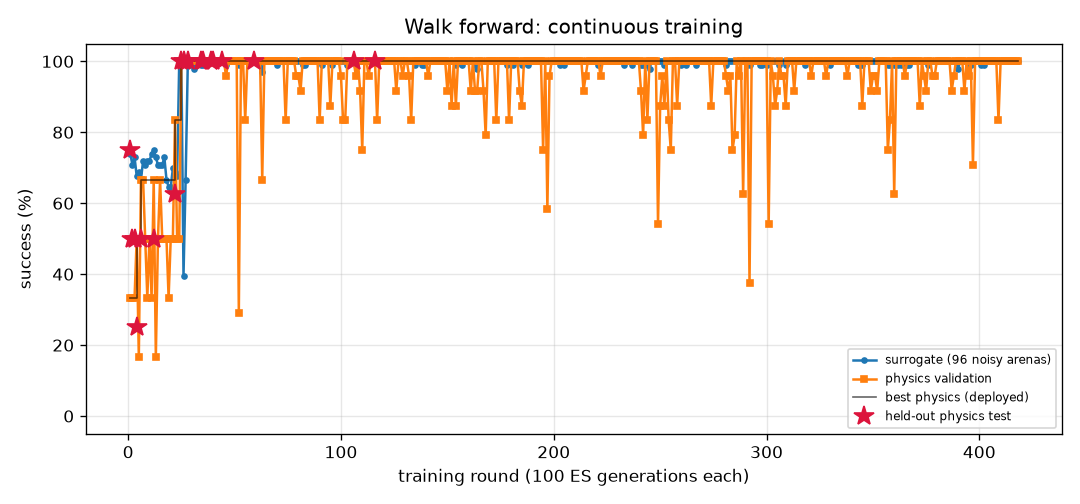
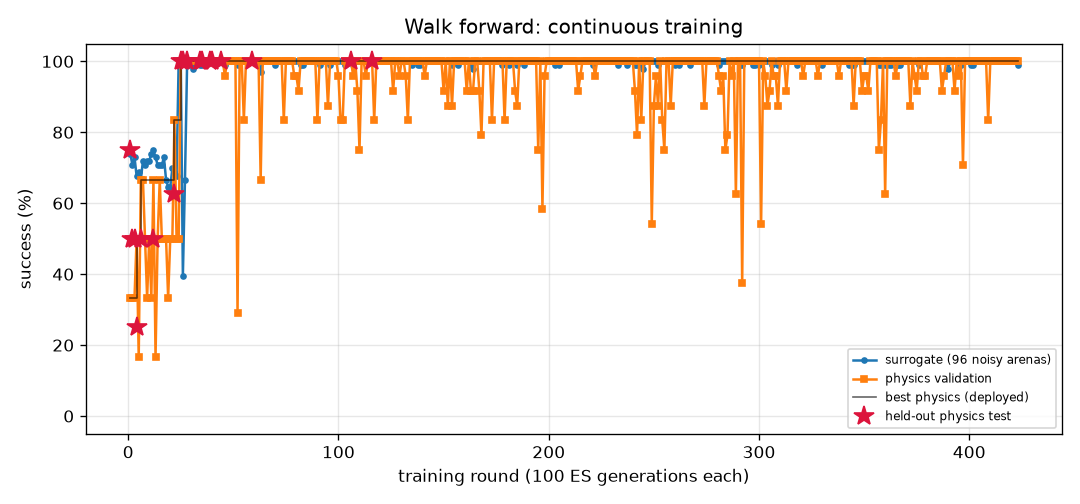
FlyLab: continuous training progress
- walk_forward: optimal, physics val 100% of 24, round 423
- turn: optimal, physics val 100% of 24, round 1132
- goto: optimal, physics val 100% of 24, round 323
- odor_seek: optimal, physics val 100% of 24, round 261
- odor_avoid: optimal, physics val 100% of 24, round 981
- light_seek: optimal, physics val 100% of 24, round 527
- light_avoid: optimal, physics val 100% of 24, round 698

diff --git a/projects/09_flylab/training/walk_forward/REPORT.md b/projects/09_flylab/training/walk_forward/REPORT.md
@@ -1,14 +1,14 @@
 # Walk forward (`walk_forward`) — training report
 
-*Auto-generated by `train_brains.py`, last updated 2026-11-18T15:31:30.*
+*Auto-generated by `train_brains.py`, last updated 2026-11-18T16:38:00.*
 
 ![curve](curve.png)
 
 | | |
 |---|---|
-| rounds | 418 |
-| ES generations | 41800 |
-| physics runs | 10046 |
+| rounds | 423 |
+| ES generations | 42300 |
+| physics runs | 10166 |
 | status | **optimal** |
 | best brain | round 116: physics validation **100%** on 24 arenas, surrogate 100% |
 | held-out physics test | **100%** on 32 unseen arenas (95% CI 89%-100%) (errors: [0.13, 0.16, 0.19, 0.16, 0.15, 0.2, 0.17, 0.18, 0.17, 0.19, 0.2, 0.14, 0.17, 0.19, 0.2, 0.2, 0.13, 0.19, 0.16, 0.2, 0.2, 0.16, 0.17, 0.2, 0.13, 0.15, 0.18, 0.14, 0.16, 0.15, 0.19, 0.12]) |
@@ -17,11 +17,6 @@ Physics error per arena: mm from target at the end (< 1.5 and standing still = s
 
 | round | level | gens | sigma | surrogate | physics val | val errors | test | note |
 |---:|---:|---:|---:|---:|---:|---|---:|---|
-| 379 | 3 | 37900 | 0.024 | 100% | 96% | [0.07, 0.09, 0.09, 0.08, 0.08, 0.06, 0.1, 0.06, 0.09, 0.12, 0.41, 0.17, 0.04, 0.08, 0.07, 0.14, 0.06, 0.12, 0.09, 0.09, 0.06, 0.12, 0.18, 0.05] |  |  |
-| 380 | 3 | 38000 | 0.024 | 100% | 100% | [0.14, 0.17, 0.15, 0.14, 0.17, 0.1, 0.18, 0.14, 0.17, 0.18, 0.09, 0.19, 0.12, 0.1, 0.15, 0.19, 0.14, 0.17, 0.15, 0.15, 0.14, 0.18, 0.18, 0.13] |  | restart from best |
-| 381 | 3 | 38100 | 0.024 | 100% | 100% | [0.31, 0.29, 0.25, 0.3, 0.29, 0.24, 0.29, 0.27, 0.29, 0.28, 0.23, 0.26, 0.26, 0.24, 0.31, 0.26, 0.29, 0.3, 0.27, 0.3, 0.27, 0.27, 0.25, 0.26] |  |  |
-| 382 | 3 | 38200 | 0.024 | 100% | 100% | [0.19, 0.18, 0.13, 0.2, 0.17, 0.15, 0.2, 0.14, 0.15, 0.22, 0.18, 0.22, 0.18, 0.11, 0.21, 0.24, 0.16, 0.17, 0.17, 0.22, 0.13, 0.19, 0.18, 0.19] |  |  |
-| 383 | 3 | 38300 | 0.024 | 100% | 100% | [0.23, 0.23, 0.2, 0.23, 0.22, 0.19, 0.23, 0.21, 0.22, 0.21, 0.18, 0.2, 0.21, 0.2, 0.22, 0.21, 0.22, 0.23, 0.22, 0.23, 0.22, 0.21, 0.2, 0.21] |  |  |
 | 384 | 3 | 38400 | 0.024 | 100% | 100% | [0.21, 0.06, 0.17, 0.22, 0.05, 0.02, 0.15, 0.2, 0.08, 0.16, 0.33, 0.16, 0.2, 0.02, 0.09, 0.18, 0.22, 0.07, 0.2, 0.1, 0.21, 0.16, 0.15, 0.2] |  | restart from best |
 | 385 | 3 | 38500 | 0.024 | 100% | 100% | [0.23, 0.33, 0.19, 0.23, 0.33, 0.2, 0.33, 0.18, 0.33, 0.33, 0.21, 0.31, 0.18, 0.2, 0.25, 0.32, 0.21, 0.3, 0.18, 0.27, 0.18, 0.33, 0.31, 0.18] |  |  |
 | 386 | 3 | 38600 | 0.024 | 100% | 100% | [0.11, 0.2, 0.12, 0.11, 0.2, 0.14, 0.21, 0.12, 0.2, 0.25, 0.15, 0.25, 0.12, 0.14, 0.12, 0.25, 0.11, 0.17, 0.12, 0.14, 0.11, 0.26, 0.25, 0.11] |  |  |
@@ -57,3 +52,8 @@ Physics error per arena: mm from target at the end (< 1.5 and standing still = s
 | 416 | 3 | 41600 | 0.024 | 100% | 100% | [0.21, 0.21, 0.17, 0.21, 0.21, 0.17, 0.22, 0.19, 0.21, 0.2, 0.16, 0.19, 0.19, 0.17, 0.21, 0.2, 0.21, 0.22, 0.2, 0.22, 0.2, 0.21, 0.19, 0.19] |  | restart from best |
 | 417 | 3 | 41700 | 0.024 | 100% | 100% | [0.22, 0.22, 0.16, 0.22, 0.22, 0.15, 0.22, 0.19, 0.22, 0.18, 0.06, 0.08, 0.19, 0.15, 0.22, 0.07, 0.21, 0.23, 0.19, 0.23, 0.21, 0.18, 0.13, 0.19] |  |  |
 | 418 | 3 | 41800 | 0.024 | 100% | 100% | [0.26, 0.29, 0.2, 0.26, 0.29, 0.2, 0.28, 0.23, 0.29, 0.28, 0.19, 0.26, 0.23, 0.2, 0.27, 0.27, 0.26, 0.28, 0.22, 0.28, 0.24, 0.28, 0.26, 0.23] |  |  |
+| 419 | 3 | 41900 | 0.024 | 100% | 100% | [0.22, 0.27, 0.16, 0.22, 0.26, 0.16, 0.26, 0.19, 0.27, 0.26, 0.16, 0.25, 0.18, 0.17, 0.24, 0.25, 0.21, 0.25, 0.19, 0.25, 0.2, 0.25, 0.25, 0.18] |  |  |
+| 420 | 3 | 42000 | 0.024 | 100% | 100% | [0.24, 0.29, 0.24, 0.24, 0.29, 0.23, 0.3, 0.23, 0.29, 0.32, 0.23, 0.33, 0.22, 0.22, 0.25, 0.32, 0.23, 0.28, 0.22, 0.26, 0.23, 0.32, 0.33, 0.22] |  | restart from best |
+| 421 | 3 | 42100 | 0.024 | 100% | 100% | [0.19, 0.17, 0.18, 0.18, 0.18, 0.17, 0.17, 0.18, 0.17, 0.15, 0.17, 0.13, 0.18, 0.18, 0.18, 0.19, 0.18, 0.18, 0.18, 0.18, 0.18, 0.19, 0.19, 0.18] |  |  |
+| 422 | 3 | 42200 | 0.024 | 100% | 100% | [0.26, 0.23, 0.27, 0.26, 0.16, 0.26, 0.15, 0.26, 0.23, 0.13, 0.25, 0.13, 0.26, 0.26, 0.13, 0.11, 0.28, 0.24, 0.26, 0.24, 0.27, 0.09, 0.1, 0.26] |  |  |
+| 423 | 3 | 42300 | 0.024 | 99% | 100% | [0.29, 0.29, 0.23, 0.29, 0.29, 0.22, 0.28, 0.26, 0.29, 0.27, 0.22, 0.25, 0.25, 0.22, 0.3, 0.26, 0.29, 0.3, 0.26, 0.3, 0.27, 0.27, 0.25, 0.25] |  |  |

diff --git a/projects/09_flylab/training/light_seek/REPORT.md b/projects/09_flylab/training/light_seek/REPORT.md
@@ -1,14 +1,14 @@
 # Walk toward light (`light_seek`) — training report
 
-*Auto-generated by `train_brains.py`, last updated 2026-11-18T15:25:57.*
+*Auto-generated by `train_brains.py`, last updated 2026-11-18T16:15:52.*
 
 ![curve](curve.png)
 
 | | |
 |---|---|
-| rounds | 524 |
-| ES generations | 52400 |
-| physics runs | 9456 |
+| rounds | 527 |
+| ES generations | 52700 |
+| physics runs | 9528 |
 | status | **optimal** |
 | best brain | round 375: physics validation **100%** on 24 arenas, surrogate 100% |
 | held-out physics test | **100%** on 32 unseen arenas (95% CI 89%-100%) (errors: [0.57, 0.54, 0.53, 0.57, 0.55, 0.56, 0.59, 0.56, 0.53, 0.56, 0.71, 0.56, 0.55, 0.54, 0.53, 0.54, 0.54, 0.55, 0.52, 0.65, 0.64, 0.7, 0.58, 0.57, 0.6, 0.62, 0.55, 0.88, 0.54, 0.52, 0.62, 0.57]) |
@@ -17,9 +17,6 @@ Physics error per arena: mm from target at the end (< 1.5 and standing still = s
 
 | round | level | gens | sigma | surrogate | physics val | val errors | test | note |
 |---:|---:|---:|---:|---:|---:|---|---:|---|
-| 485 | 3 | 48500 | 0.024 | 100% | 100% | [1.0, 0.68, 0.74, 0.62, 0.53, 0.56, 0.58, 0.61, 0.71, 0.52, 0.63, 0.61, 0.59, 0.73, 0.58, 0.61, 0.59, 0.58, 0.57, 0.52, 0.55, 0.79, 0.52, 0.58] |  |  |
-| 486 | 3 | 48600 | 0.024 | 100% | 100% | [1.04, 0.7, 0.78, 0.65, 0.62, 0.69, 0.66, 0.66, 1.03, 0.62, 0.69, 0.62, 0.66, 0.68, 0.65, 0.62, 0.65, 0.72, 0.64, 0.62, 0.69, 0.61, 0.84, 0.65] |  |  |
-| 487 | 3 | 48700 | 0.024 | 100% | 100% | [0.62, 0.51, 0.63, 0.55, 0.67, 0.59, 0.56, 0.52, 0.65, 0.64, 0.63, 0.6, 0.51, 0.77, 0.6, 0.55, 0.54, 0.51, 0.6, 1.02, 0.59, 0.65, 0.49, 0.66] |  | restart from best |
 | 488 | 3 | 48800 | 0.024 | 100% | 100% | [1.03, 0.59, 0.65, 0.53, 0.58, 0.7, 0.63, 0.53, 0.69, 0.57, 0.57, 0.65, 0.63, 0.72, 0.54, 0.68, 0.57, 0.69, 0.52, 0.59, 0.63, 1.31, 0.71, 0.91] |  |  |
 | 489 | 3 | 48900 | 0.024 | 100% | 100% | [0.63, 0.58, 0.62, 0.61, 0.59, 0.6, 0.57, 0.64, 0.68, 0.63, 0.66, 0.61, 0.67, 1.29, 0.64, 0.64, 0.59, 0.64, 0.6, 0.65, 0.68, 0.58, 0.66, 0.78] |  |  |
 | 490 | 3 | 49000 | 0.024 | 100% | 100% | [0.55, 0.5, 0.62, 0.96, 0.51, 0.64, 0.54, 0.56, 0.52, 0.57, 0.62, 0.65, 0.5, 0.57, 0.49, 0.49, 0.5, 0.61, 0.56, 0.6, 0.56, 0.61, 0.69, 0.54] |  |  |
@@ -57,3 +54,6 @@ Physics error per arena: mm from target at the end (< 1.5 and standing still = s
 | 522 | 3 | 52200 | 0.024 | 100% | 100% | [0.46, 0.59, 0.55, 0.49, 0.53, 0.48, 0.55, 0.54, 0.51, 0.47, 0.45, 0.58, 0.83, 0.48, 1.04, 0.6, 0.49, 0.54, 0.7, 0.51, 0.46, 1.19, 0.54, 0.51] |  |  |
 | 523 | 3 | 52300 | 0.024 | 100% | 100% | [0.52, 0.5, 0.51, 0.99, 0.58, 0.54, 0.56, 0.52, 0.59, 0.44, 0.5, 0.55, 1.01, 0.53, 0.58, 1.07, 0.56, 0.52, 0.5, 0.58, 0.91, 0.56, 0.63, 0.55] |  | restart from best |
 | 524 | 3 | 52400 | 0.024 | 100% | 100% | [0.6, 0.64, 0.71, 0.68, 0.69, 0.6, 0.56, 0.71, 0.73, 0.61, 0.69, 0.68, 0.62, 0.65, 0.62, 0.64, 0.59, 0.74, 0.65, 0.68, 0.75, 0.64, 0.65, 0.62] |  |  |
+| 525 | 3 | 52500 | 0.024 | 100% | 96% | [0.59, 0.57, 0.54, 0.68, 0.48, 0.61, 0.63, 2.47, 0.63, 0.56, 0.66, 0.7, 0.75, 0.64, 0.7, 0.65, 0.59, 0.53, 0.6, 0.61, 0.65, 0.65, 0.61, 0.68] |  |  |
+| 526 | 3 | 52600 | 0.024 | 100% | 92% | [0.48, 0.57, 0.45, 0.48, 0.52, 1.08, 0.45, 1.07, 2.5, 0.61, 0.47, 1.35, 0.53, 0.45, 0.51, 0.48, 0.52, 0.48, 0.55, 0.62, 0.5, 1.0, 0.44, 0.49] |  |  |
+| 527 | 3 | 52700 | 0.024 | 100% | 96% | [0.61, 0.58, 0.64, 0.54, 0.58, 0.6, 0.61, 0.62, 3.78, 0.58, 0.59, 0.65, 0.65, 0.62, 0.63, 0.6, 0.63, 0.56, 0.53, 0.6, 0.74, 0.55, 0.86, 0.58] |  | restart from best |

diff --git a/projects/09_flylab/training/goto/REPORT.md b/projects/09_flylab/training/goto/REPORT.md
@@ -1,14 +1,14 @@
 # Go to a location (`goto`) — training report
 
-*Auto-generated by `train_brains.py`, last updated 2026-11-18T13:09:31.*
+*Auto-generated by `train_brains.py`, last updated 2026-11-18T16:39:57.*
 
 ![curve](curve.png)
 
 | | |
 |---|---|
-| rounds | 322 |
-| ES generations | 32200 |
-| physics runs | 7678 |
+| rounds | 323 |
+| ES generations | 32300 |
+| physics runs | 7702 |
 | status | **optimal** |
 | best brain | round 176: physics validation **100%** on 24 arenas, surrogate 100% |
 | held-out physics test | **100%** on 32 unseen arenas (95% CI 89%-100%) (errors: [0.2, 0.32, 0.19, 0.24, 0.18, 0.2, 0.19, 0.17, 0.22, 0.23, 0.23, 0.26, 0.2, 0.19, 0.24, 0.23, 0.22, 0.24, 0.2, 0.22, 0.2, 0.2, 0.26, 0.19, 0.22, 0.18, 0.26, 0.22, 0.2, 0.26, 0.23, 0.23]) |
@@ -17,7 +17,6 @@ Physics error per arena: mm from target at the end (< 1.5 and standing still = s
 
 | round | level | gens | sigma | surrogate | physics val | val errors | test | note |
 |---:|---:|---:|---:|---:|---:|---|---:|---|
-| 283 | 3 | 28300 | 0.025 | 100% | 100% | [0.58, 0.57, 0.44, 0.46, 0.47, 0.48, 0.56, 0.54, 0.48, 0.46, 0.44, 0.45, 0.53, 0.49, 0.54, 0.53, 0.59, 0.46, 0.44, 0.5, 0.53, 0.45, 0.58, 0.48] |  |  |
 | 284 | 3 | 28400 | 0.024 | 99% | 100% | [0.62, 0.6, 0.58, 0.42, 0.44, 0.42, 0.6, 0.47, 0.46, 0.42, 0.42, 0.43, 0.49, 0.45, 0.5, 0.55, 0.56, 0.48, 0.4, 0.5, 0.53, 0.44, 0.55, 0.43] |  | restart from best |
 | 285 | 3 | 28500 | 0.024 | 98% | 100% | [0.46, 0.37, 0.41, 0.36, 0.29, 0.31, 0.43, 0.34, 0.4, 0.33, 0.32, 0.37, 0.43, 0.29, 0.36, 0.35, 0.46, 0.34, 0.31, 0.44, 0.32, 0.37, 0.44, 0.34] |  |  |
 | 286 | 3 | 28600 | 0.025 | 99% | 100% | [0.64, 0.65, 0.68, 0.6, 0.55, 0.58, 0.68, 0.61, 0.65, 0.57, 0.56, 0.6, 0.68, 0.53, 0.63, 0.59, 0.69, 0.61, 0.56, 0.69, 0.58, 0.63, 0.68, 0.61] |  |  |
@@ -57,3 +56,4 @@ Physics error per arena: mm from target at the end (< 1.5 and standing still = s
 | 320 | 3 | 32000 | 0.024 | 99% | 100% | [0.53, 0.5, 0.5, 0.43, 0.4, 0.4, 0.54, 0.42, 0.43, 0.4, 0.38, 0.41, 0.48, 0.4, 0.49, 0.46, 0.57, 0.43, 0.38, 0.47, 0.44, 0.41, 0.51, 0.4] |  | restart from best |
 | 321 | 3 | 32100 | 0.024 | 99% | 100% | [0.53, 0.47, 0.37, 0.46, 0.37, 0.4, 0.55, 0.42, 0.51, 0.41, 0.38, 0.44, 0.54, 0.36, 0.46, 0.42, 0.55, 0.42, 0.39, 0.54, 0.4, 0.46, 0.52, 0.43] |  |  |
 | 322 | 3 | 32200 | 0.025 | 99% | 100% | [0.6, 0.59, 0.58, 0.48, 0.45, 0.47, 0.59, 0.52, 0.51, 0.47, 0.45, 0.49, 0.58, 0.49, 0.52, 0.55, 0.5, 0.49, 0.45, 0.57, 0.51, 0.5, 0.59, 0.49] |  |  |
+| 323 | 3 | 32300 | 0.025 | 100% | 100% | [0.36, 0.37, 0.34, 0.29, 0.27, 0.31, 0.35, 0.34, 0.29, 0.26, 0.27, 0.29, 0.34, 0.3, 0.32, 0.37, 0.3, 0.28, 0.27, 0.32, 0.33, 0.28, 0.35, 0.29] |  |  |

diff --git a/projects/09_flylab/training/TRAINING.md b/projects/09_flylab/training/TRAINING.md
@@ -1,15 +1,15 @@
 # FlyLab brains — continuous training log
 
-*Auto-generated by `train_brains.py`, last updated 2026-11-18T15:31:30.*
+*Auto-generated by `train_brains.py`, last updated 2026-11-18T16:39:57.*
 
 Every skill has its own brain and its own training process: surrogate ES rounds, physics validation in MuJoCo, keep-the-best selection, and a held-out physics test that is never used for selection. See each skill's report for its full round-by-round history. Mastery is progressive: passing a level (100% physics validation, >=95% surrogate) doubles the validation and test arena sets; a brain is **optimal** once it holds up at level 3 (>=95% of 24 validation arenas) AND scores >=90% on the 32 held-out test arenas. Test columns show 95% Wilson confidence intervals.
 
 | skill | rounds | ES generations | physics runs | surrogate | physics val | **physics test** | status |
 |---|---:|---:|---:|---:|---:|---:|---|
-| [Walk forward](walk_forward/REPORT.md) | 418 | 41800 | 10046 | 100% | 100% of 24 | 100% of 32 (CI 89-100%) | **optimal** |
+| [Walk forward](walk_forward/REPORT.md) | 423 | 42300 | 10166 | 100% | 100% of 24 | 100% of 32 (CI 89-100%) | **optimal** |
 | [Turn in place](turn/REPORT.md) | 1132 | 113200 | 27414 | 100% | 100% of 24 | 97% of 32 (CI 84-99%) | **optimal** |
-| [Go to a location](goto/REPORT.md) | 322 | 32200 | 7678 | 100% | 100% of 24 | 100% of 32 (CI 89-100%) | **optimal** |
+| [Go to a location](goto/REPORT.md) | 323 | 32300 | 7702 | 100% | 100% of 24 | 100% of 32 (CI 89-100%) | **optimal** |
 | [Find food by smell](odor_seek/REPORT.md) | 261 | 26100 | 5758 | 100% | 100% of 24 | 100% of 32 (CI 89-100%) | **optimal** |
 | [Escape a bad smell](odor_avoid/REPORT.md) | 981 | 98100 | 20850 | 97% | 100% of 24 | 97% of 32 (CI 84-99%) | **optimal** |
-| [Walk toward light](light_seek/REPORT.md) | 524 | 52400 | 9456 | 100% | 100% of 24 | 100% of 32 (CI 89-100%) | **optimal** |
+| [Walk toward light](light_seek/REPORT.md) | 527 | 52700 | 9528 | 100% | 100% of 24 | 100% of 32 (CI 89-100%) | **optimal** |
 | [Hide from light](light_avoid/REPORT.md) | 698 | 69800 | 17024 | 100% | 100% of 24 | 100% of 32 (CI 89-100%) | **optimal** |
